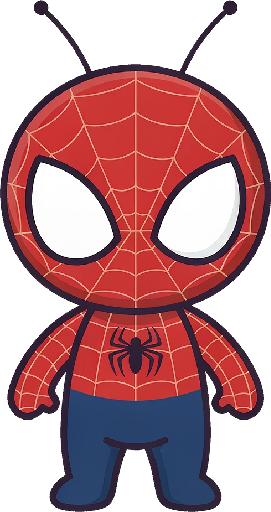
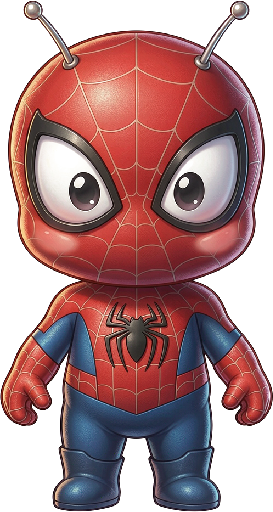
polish(pet): 颜值优先——升级立绘质感、给程序化主题加明暗、增强圆眼

diff --git a/src/renderer/src/pet/themes.ts b/src/renderer/src/pet/themes.ts
@@ -97,25 +97,97 @@ function spiderEmblemAt(
   g.circle(X(0), Y(-6.4), S(1.9)).fill({ color })
 }
 
+// ==== 立体感辅助 ====
+//
+// 平涂色块看起来廉价，是"程序化绘制"最明显的短板。
+// 下面几个函数用**同心内缩的多层椭圆**模拟赛璐璐明暗：
+// 每层向内偏移并降低不透明度，视觉上就是从亮到暗的过渡。
+// 比纯平涂多花一点绘制量，但静态图只在重建时画一次，运行时零成本。
+
+/**
+ * 给一个圆形/椭圆形体做三段式明暗。
+ * 左上亮、右下暗，是最经典的受光关系。
+ */
+function shadeSphere(
+  g: import('pixi.js').Graphics,
+  cx: number,
+  cy: number,
+  rx: number,
+  ry: number,
+  base: number,
+  light: number,
+  dark: number
+): void {
+  g.ellipse(cx, cy, rx, ry).fill({ color: base })
+  // 亮部：左上
+  g.ellipse(cx - rx * 0.28, cy - ry * 0.32, rx * 0.62, ry * 0.55).fill({ color: light, alpha: 0.55 })
+  // 亮部里的高光点
+  g.ellipse(cx - rx * 0.36, cy - ry * 0.4, rx * 0.3, ry * 0.24).fill({ color: 0xffffff, alpha: 0.3 })
+  // 暗部：右下
+  g.ellipse(cx + rx * 0.3, cy + ry * 0.42, rx * 0.72, ry * 0.6).fill({ color: dark, alpha: 0.28 })
+  // 底部反光（地面弹上来的光），让形体不显死板
+  g.ellipse(cx, cy + ry * 0.72, rx * 0.5, ry * 0.2).fill({ color: light, alpha: 0.18 })
+}
+
+/** 把颜色调亮若干档 */
+function lighten(color: number, amount: number): number {
+  let r = (color >> 16) & 0xff
+  let g = (color >> 8) & 0xff
+  let b = color & 0xff
+  r = Math.min(255, Math.round(r + (255 - r) * amount))
+  g = Math.min(255, Math.round(g + (255 - g) * amount))
+  b = Math.min(255, Math.round(b + (255 - b) * amount))
+  return (r << 16) | (g << 8) | b
+}
+
+/** 把颜色调暗若干档 */
+function darken(color: number, amount: number): number {
+  let r = (color >> 16) & 0xff
+  let g = (color >> 8) & 0xff
+  let b = color & 0xff
+  r = Math.max(0, Math.round(r * (1 - amount)))
+  g = Math.max(0, Math.round(g * (1 - amount)))
+  b = Math.max(0, Math.round(b * (1 - amount)))
+  return (r << 16) | (g << 8) | b
+}
+
 // ==== 各主题的绘制器 ====
 
-/** 原始「围炉」小团子 */
+/**
+ * 「围炉」小团子——柔和的圆润体，带明暗与高光。
+ */
 function drawHearth({ body, head, p }: DrawCtx): void {
-  body.ellipse(0, 42, 42, 46).fill({ color: p.body })
-  body.ellipse(0, 52, 27, 31).fill({ color: p.belly })
-  body.ellipse(0, 80, 36, 9).fill({ color: p.dark, alpha: 0.25 })
+  const light = lighten(p.body, 0.26)
+  const dark = darken(p.body, 0.3)
 
-  head.circle(0, 0, 36).fill({ color: p.body })
-  head.moveTo(-2, -34)
-  head.quadraticCurveTo(6, -50, 15, -43)
-  head.quadraticCurveTo(7, -38, 1, -36)
-  head.fill({ color: p.dark })
+  // 身体：bean 形，重量偏下
+  shadeSphere(body, 0, 42, 42, 46, p.body, light, dark)
+  // 肚皮浅色区，也给一层暗部收边
+  body.ellipse(0, 52, 27, 31).fill({ color: p.belly })
+  body.ellipse(2, 60, 24, 24).fill({ color: darken(p.belly, 0.12), alpha: 0.5 })
+  body.ellipse(-7, 43, 12, 10).fill({ color: 0xffffff, alpha: 0.32 })
+  // 底部反光与接触阴影
+  body.ellipse(0, 80, 34, 8).fill({ color: 0x000000, alpha: 0.16 })
+  body.ellipse(0, 78, 26, 5).fill({ color: light, alpha: 0.22 })
+
+  // 头：正圆
+  shadeSphere(head, 0, 0, 36, 36, p.body, light, dark)
+  // 刘海
   head.moveTo(-33, -10)
   head.quadraticCurveTo(-18, -30, 0, -31)
   head.quadraticCurveTo(18, -30, 33, -10)
   head.quadraticCurveTo(24, -22, 0, -22)
   head.quadraticCurveTo(-24, -22, -33, -10)
-  head.fill({ color: p.hair, alpha: 0.9 })
+  head.fill({ color: p.hair, alpha: 0.92 })
+  // 刘海高光
+  head.ellipse(-12, -26, 13, 5).fill({ color: lighten(p.hair, 0.4), alpha: 0.45 })
+  // 呆毛
+  head.moveTo(-2, -34)
+  head.quadraticCurveTo(6, -50, 15, -43)
+  head.quadraticCurveTo(7, -38, 1, -36)
+  head.fill({ color: p.hair })
+  // 下巴暗面，把头和身体分开
+  head.ellipse(0, 20, 26, 12).fill({ color: dark, alpha: 0.22 })
 }
 
 /**
@@ -202,52 +274,75 @@ function drawSpider({ body, head, p }: DrawCtx): void {
   head.stroke({ color: p.dark, width: 1.7 })
 }
 
-/** 夜色蓝 */
+/** 夜色蓝——安静的深蓝，夜里不刺眼 */
 function drawDusk({ body, head, p }: DrawCtx): void {
-  body.ellipse(0, 42, 42, 46).fill({ color: p.body })
-  body.ellipse(0, 54, 25, 28).fill({ color: p.belly, alpha: 0.9 })
-  body.ellipse(0, 80, 36, 9).fill({ color: p.dark, alpha: 0.25 })
+  const light = lighten(p.body, 0.3)
+  const dark = darken(p.body, 0.32)
 
-  head.circle(0, 0, 36).fill({ color: p.body })
+  shadeSphere(body, 0, 42, 42, 46, p.body, light, dark)
+  body.ellipse(0, 54, 25, 28).fill({ color: p.belly, alpha: 0.92 })
+  body.ellipse(2, 62, 21, 19).fill({ color: darken(p.belly, 0.14), alpha: 0.45 })
+  body.ellipse(-8, 42, 13, 10).fill({ color: 0xffffff, alpha: 0.26 })
+  body.ellipse(0, 80, 34, 8).fill({ color: 0x000000, alpha: 0.18 })
+
+  shadeSphere(head, 0, 0, 36, 36, p.body, light, dark)
+  // 夜色的刘海：偏冷调深蓝
   head.moveTo(-34, -6)
   head.quadraticCurveTo(-20, -32, 0, -33)
   head.quadraticCurveTo(20, -32, 34, -6)
   head.quadraticCurveTo(18, -20, 0, -20)
   head.quadraticCurveTo(-18, -20, -34, -6)
-  head.fill({ color: p.hair, alpha: 0.92 })
+  head.fill({ color: p.hair, alpha: 0.94 })
+  head.ellipse(-12, -25, 14, 5).fill({ color: lighten(p.hair, 0.45), alpha: 0.4 })
+  head.ellipse(0, 20, 26, 12).fill({ color: dark, alpha: 0.24 })
 }
 
-/** 暖橙 */
+/** 暖阳——暖色调，适合白天 */
 function drawEmber({ body, head, p }: DrawCtx): void {
-  body.ellipse(0, 42, 42, 46).fill({ color: p.body })
-  body.ellipse(0, 52, 28, 32).fill({ color: p.belly, alpha: 0.92 })
-  body.ellipse(0, 80, 36, 9).fill({ color: p.dark, alpha: 0.25 })
+  const light = lighten(p.body, 0.28)
+  const dark = darken(p.body, 0.3)
 
-  head.circle(0, 0, 36).fill({ color: p.body })
+  shadeSphere(body, 0, 42, 42, 46, p.body, light, dark)
+  body.ellipse(0, 52, 28, 32).fill({ color: p.belly, alpha: 0.94 })
+  body.ellipse(2, 60, 24, 24).fill({ color: darken(p.belly, 0.13), alpha: 0.42 })
+  body.ellipse(-7, 42, 13, 11).fill({ color: 0xffffff, alpha: 0.34 })
+  body.ellipse(0, 80, 34, 8).fill({ color: 0x000000, alpha: 0.17 })
+
+  shadeSphere(head, 0, 0, 36, 36, p.body, light, dark)
   head.moveTo(-33, -8)
   head.quadraticCurveTo(-16, -33, 2, -32)
   head.quadraticCurveTo(20, -31, 33, -8)
   head.quadraticCurveTo(22, -20, 0, -20)
   head.quadraticCurveTo(-22, -20, -33, -8)
-  head.fill({ color: p.hair, alpha: 0.9 })
+  head.fill({ color: p.hair, alpha: 0.92 })
+  head.ellipse(-12, -25, 14, 5).fill({ color: lighten(p.hair, 0.42), alpha: 0.42 })
+  head.ellipse(0, 20, 26, 12).fill({ color: dark, alpha: 0.22 })
 }
 
-/** 薄荷绿 */
+/** 薄荷——清爽的浅绿 */
 function drawMint({ body, head, p }: DrawCtx): void {
-  body.ellipse(0, 42, 42, 46).fill({ color: p.body })
-  body.ellipse(0, 52, 27, 31).fill({ color: p.belly, alpha: 0.88 })
-  body.ellipse(0, 80, 36, 9).fill({ color: p.dark, alpha: 0.25 })
+  const light = lighten(p.body, 0.3)
+  const dark = darken(p.body, 0.28)
 
-  head.circle(0, 0, 36).fill({ color: p.body })
+  shadeSphere(body, 0, 42, 42, 46, p.body, light, dark)
+  body.ellipse(0, 52, 27, 31).fill({ color: p.belly, alpha: 0.9 })
+  body.ellipse(2, 60, 23, 23).fill({ color: darken(p.belly, 0.12), alpha: 0.44 })
+  body.ellipse(-8, 42, 13, 11).fill({ color: 0xffffff, alpha: 0.34 })
+  body.ellipse(0, 80, 34, 8).fill({ color: 0x000000, alpha: 0.15 })
+
+  shadeSphere(head, 0, 0, 36, 36, p.body, light, dark)
   // 圆润刘海
   head.moveTo(-33, -9)
   head.quadraticCurveTo(-20, -31, 0, -32)
   head.quadraticCurveTo(20, -31, 33, -9)
   head.quadraticCurveTo(20, -22, 0, -22)
   head.quadraticCurveTo(-20, -22, -33, -9)
-  head.fill({ color: p.hair, alpha: 0.9 })
+  head.fill({ color: p.hair, alpha: 0.92 })
+  head.ellipse(-12, -25, 14, 5).fill({ color: lighten(p.hair, 0.45), alpha: 0.42 })
   // 小发夹
-  head.roundRect(14, -28, 10, 4, 2).fill({ color: p.blush, alpha: 0.9 })
+  head.roundRect(14, -28, 11, 4.5, 2.2).fill({ color: p.blush })
+  head.roundRect(15.5, -29.5, 5, 2, 1).fill({ color: 0xffffff, alpha: 0.55 })
+  head.ellipse(0, 20, 26, 12).fill({ color: dark, alpha: 0.2 })
 }
 
 // ==== 主题表 ====
@@ -281,7 +376,7 @@ export const THEMES: Record<ThemeId, ThemeDef> = {
     },
     draw: drawSpider,
     // 立绘模式：真正的角色美术，而非几何拼色
-    art: { src: new URL('../../assets/pet-spider.png', import.meta.url).href, height: 186 }
+    art: { src: new URL('../../assets/pet-spider.png', import.meta.url).href, height: 208 }
   },
   dusk: {
     id: 'dusk',

diff --git a/src/renderer/src/pet/stage.ts b/src/renderer/src/pet/stage.ts
@@ -319,6 +319,16 @@ export class PetStage {
     const p = this.palette
     const masked = this.themeId === 'spider'
     const ink = p.eye
+    // 眼球底部的亮色：让圆眼不只是个黑豆子
+    const lightenInk = (() => {
+      let r = (ink >> 16) & 0xff
+      let g = (ink >> 8) & 0xff
+      let b = ink & 0xff
+      r = Math.min(255, Math.round(r + (255 - r) * 0.45))
+      g = Math.min(255, Math.round(g + (255 - g) * 0.45))
+      b = Math.min(255, Math.round(b + (255 - b) * 0.45))
+      return (r << 16) | (g << 8) | b
+    })()
 
     const draw = (g: Graphics, side: number): void => {
       g.clear()
@@ -354,25 +364,44 @@ export class PetStage {
         return
       }
 
+      // 普通小团子：圆眼。Q 版规范里眼睛要占脸相当比例，
+      // 所以比直觉画得大一些，并给渐变与双高光才显得有神。
       switch (kind) {
-        case 'open':
-          g.ellipse(cx, cy, 5.5, 7).fill({ color: ink })
-          g.circle(cx + 1.8, cy - 2.4, 1.8).fill({ color: 0xffffff })
+        case 'open': {
+          const rx = 7.2
+          const ry = 8.8
+          g.ellipse(cx, cy, rx, ry).fill({ color: ink })
+          // 虹膜底部略亮，模拟眼球受光
+          g.ellipse(cx, cy + ry * 0.32, rx * 0.72, ry * 0.4).fill({
+            color: lightenInk,
+            alpha: 0.55
+          })
+          // 双高光
+          g.circle(cx + rx * 0.32, cy - ry * 0.34, rx * 0.32).fill({ color: 0xffffff })
+          g.circle(cx - rx * 0.3, cy + ry * 0.3, rx * 0.15).fill({
+            color: 0xffffff,
+            alpha: 0.7
+          })
           break
+        }
         case 'closed':
-          g.moveTo(cx - 6, cy)
-          g.quadraticCurveTo(cx, cy + 5, cx + 6, cy)
-          g.stroke({ color: ink, width: 2.2 })
-          break
-        case 'happy':
-          g.moveTo(cx - 6, cy + 2)
-          g.quadraticCurveTo(cx, cy - 5, cx + 6, cy + 2)
+          g.moveTo(cx - 7, cy)
+          g.quadraticCurveTo(cx, cy + 6, cx + 7, cy)
           g.stroke({ color: ink, width: 2.4 })
           break
-        case 'shock':
-          g.circle(cx, cy, 7).fill({ color: 0xffffff })
-          g.circle(cx, cy, 4).fill({ color: ink })
+        case 'happy':
+          g.moveTo(cx - 7, cy + 2)
+          g.quadraticCurveTo(cx, cy - 6, cx + 7, cy + 2)
+          g.stroke({ color: ink, width: 2.6 })
           break
+        case 'shock': {
+          const r = 8.5
+          g.circle(cx, cy, r).fill({ color: 0xffffff })
+          g.circle(cx, cy, r * 0.95).stroke({ color: ink, width: 1.4 })
+          g.circle(cx, cy, r * 0.55).fill({ color: ink })
+          g.circle(cx + 2, cy - 2.4, r * 0.22).fill({ color: 0xffffff })
+          break
+        }
       }
     }
     draw(this.eyeL, -1)

diff --git a/src/main/services/customArt.ts b/src/main/services/customArt.ts
@@ -338,8 +338,9 @@ export async function clearCustomArt(): Promise<void> {
  * 按图片宽高比算：太宽的图压低高度，避免超出窗口。
  */
 export function displayHeightFor(width: number, height: number): number {
+  // 与内置立绘一致用 208 为基准，按宽高比略作调整
   const ratio = width / height
-  if (ratio > 1.2) return 150 // 很宽
-  if (ratio > 0.95) return 170 // 略宽
-  return 186 // 常规竖版
+  if (ratio > 1.2) return 168 // 很宽，压低避免超出窗口
+  if (ratio > 0.95) return 192 // 略宽
+  return 208 // 常规竖版
 }
